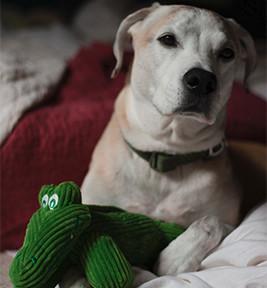
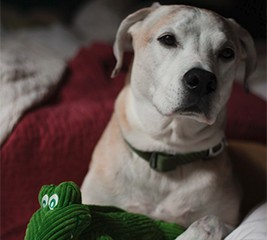
Update nav spacing, image heights, and heading text
- Reduce navigation gap from 6 to 4, icons gap from 4 to 2
- Add fixed height (h-60) to featured post images
- Change 'Featured posts' heading to 'My favorite posts'
- Update devcontainer secrets mount path
- Remove .env file with empty BUTTONDOWN_TOKEN
- Add AGENTS.md with project documentation

diff --git a/AGENTS.md b/AGENTS.md
@@ -1,0 +1,39 @@
+# hyr.mn — AGENTS.md
+
+Personal blog/portfolio of Ben Hyrman. Built with Eleventy 3 + Tailwind CSS 4 + PostCSS. Deployed on Netlify.
+
+## Commands
+
+| Action | Command |
+|--------|---------|
+| Dev server | `npm run watch` (serves on :8080, polls for file changes via CHOKIDAR_USEPOLLING) |
+| Build | `npm run build` → outputs to `dist/` |
+| Production build | `npm run build-prod` (sets NODE_ENV=production, cleans dist/ first) |
+| Clean | `npm run clean` (removes `dist/`) |
+
+No test, lint, or typecheck scripts exist.
+
+## Architecture
+
+- **Content source**: `src/site/` — Eleventy `input` dir
+- **Templates**: Nunjucks (`.njk`) with Markdown content
+- **CSS pipeline**: `src/site/css/main.css` → PostCSS (`@tailwindcss/postcss`) via `src/site/css/style.11ty.js` (an Eleventy template), output as `/css/site.css`
+- **Posts**: `src/site/posts/*.md` with frontmatter. `posts.json` sets layout `blog-entry.njk` and `permalink: "/{{ page.fileSlug | slug }}/"` — clean URLs like `/14-years/`
+- **Post collection**: Tag `blogentries` in each post's frontmatter
+- **Layout chain**: `layout.njk` (site chrome) ← `blog-entry.njk` (post chrome) ← individual posts
+- **Dark mode**: `prefers-color-scheme: media` (system preference), uses `dark:` Tailwind variants
+- **RSS feed**: `feed.njk` at `/feed.xml`, uses `@11ty/eleventy-plugin-rss`
+- **Syntax highlighting**: `@11ty/eleventy-plugin-syntaxhighlight` with `prism.css`
+- **Node**: 24 (`.nvmrc`)
+
+## Deployment
+
+- Netlify: `netlify.toml` — build command `npm run build`, publish dir `dist/`
+- Netlify redirect: `/blog/:slug` → `/:slug` (200)
+- No CI (no `.github/`)
+
+## Notable
+
+- Devcontainer forwards port 8080 (Eleventy server)
+- Font Awesome icons loaded via CDN in `layout.njk`
+- No README exists in repo
